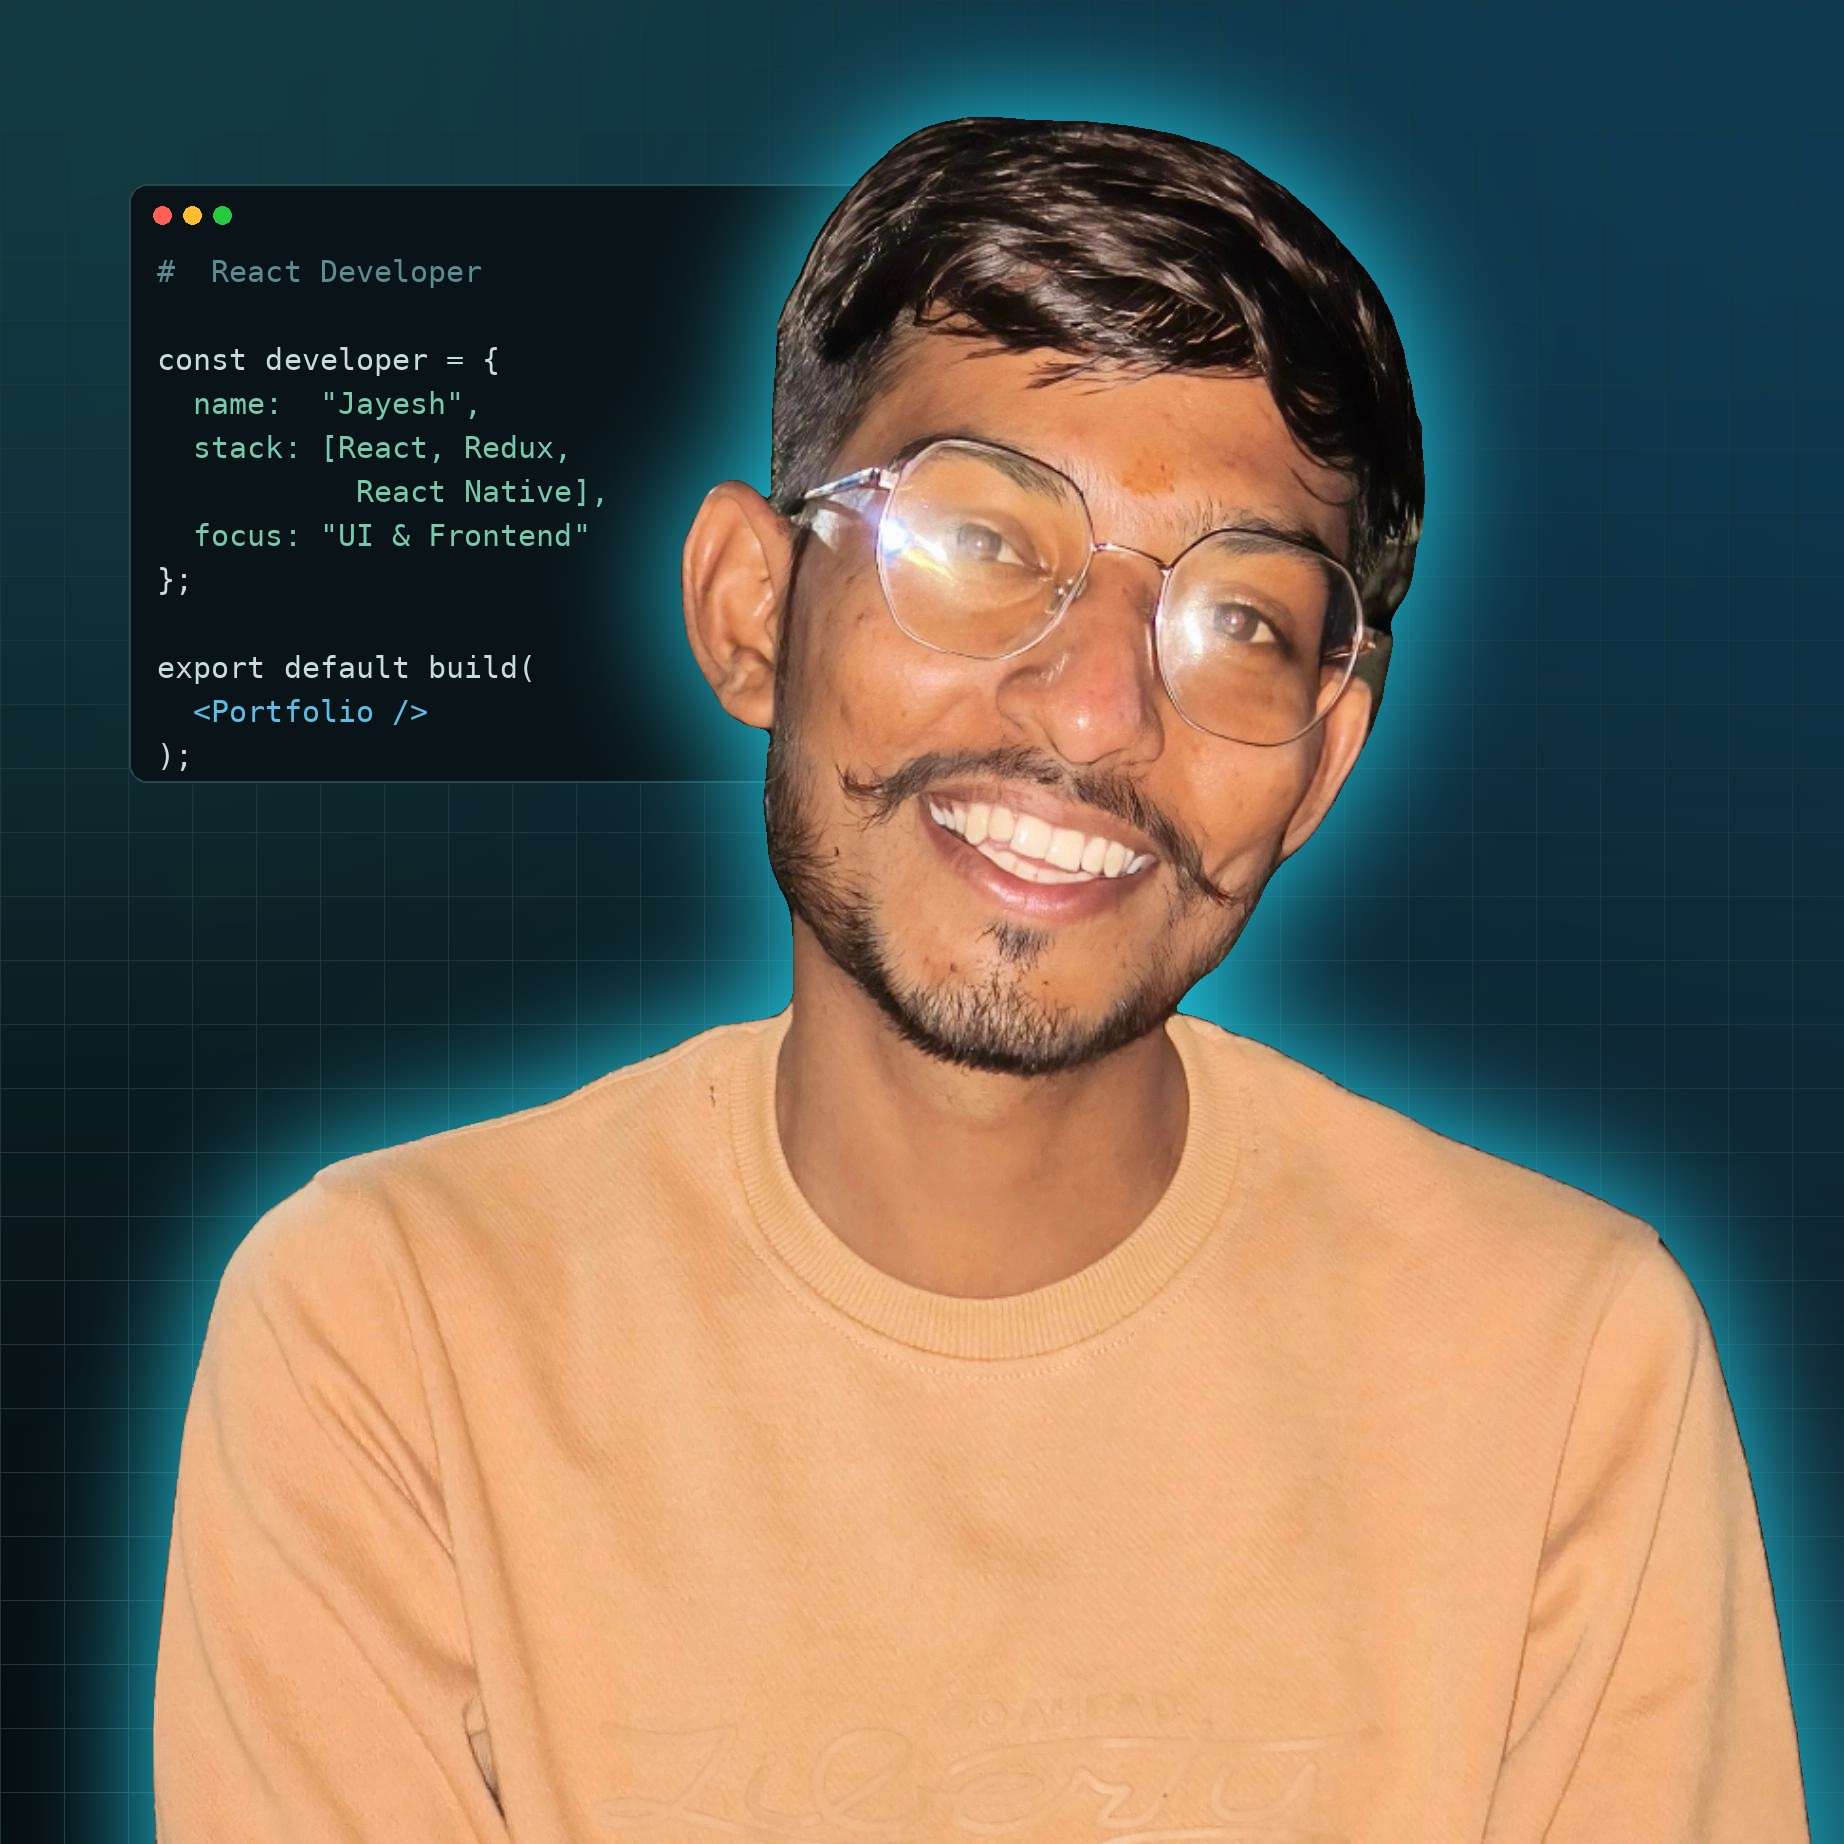
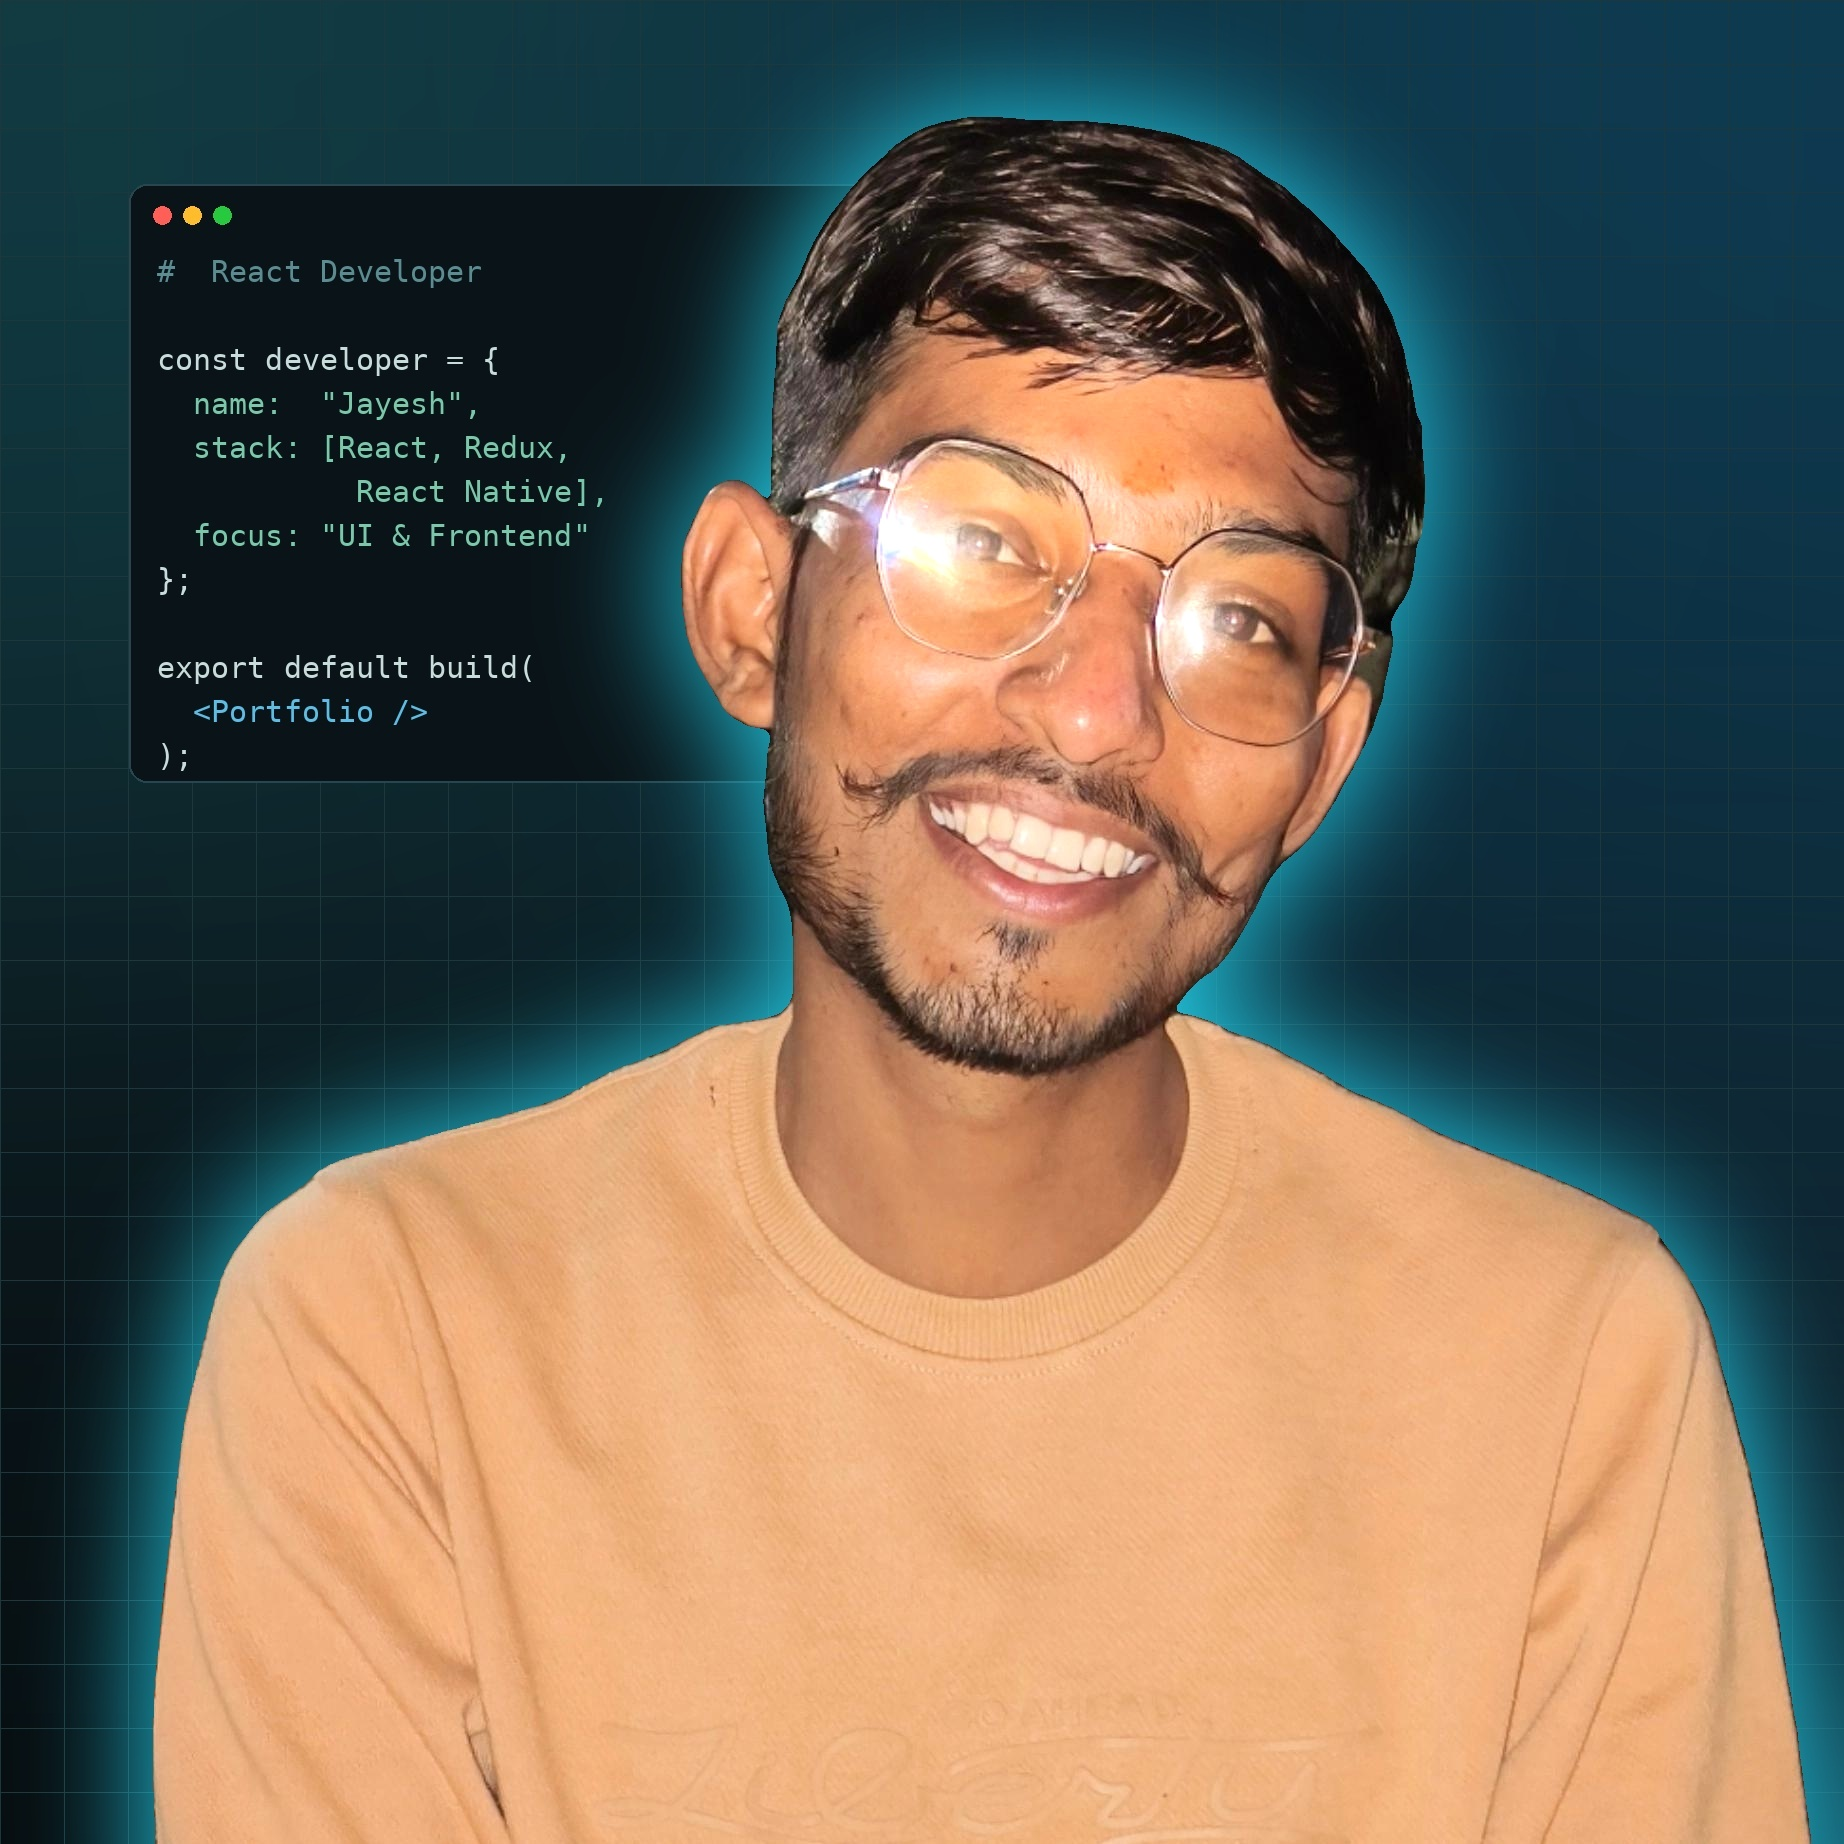
chore: brighten hero image, breathing glow animation, vercel deploy config
Add .npmrc (legacy-peer-deps for react 19 / testing-library peer conflict) and .vercelignore (exclude .codegraph socket) for Vercel builds.

Changed region(s): [[0.4328, 0.1855, 0.68, 0.3709]]

diff --git a/src/Components/Home/styles.js b/src/Components/Home/styles.js
@@ -79,17 +79,22 @@ const useStyles = (themeData) =>
       padding: 5,
       borderRadius: "50%",
       zIndex: 1,
-      "&::before": {
-        content: '""',
-        position: "absolute",
-        top: 0,
-        left: 0,
-        right: 0,
-        bottom: 0,
-        borderRadius: "50%",
-        boxShadow: `0px 0px 30px 10px ${themeData.primary}`,
-        animation: "$rotateShadowEffect 5s linear infinite",
-        zIndex: -1,
+      // gradient ring visible around the avatar via the padding gap
+      background: themeData.gradient,
+      animation: "$breathe 4s ease-in-out infinite",
+      "& .MuiAvatar-root": {
+        position: "relative",
+        zIndex: 1,
+        display: "block",
+        boxShadow: `inset 0 0 0 4px ${themeData.background}`,
+      },
+    },
+    "@keyframes breathe": {
+      "0%, 100%": {
+        boxShadow: `0 0 22px 2px ${themeData.glow}`,
+      },
+      "50%": {
+        boxShadow: `0 0 46px 10px ${themeData.glow}`,
       },
     },
     img: {
@@ -100,23 +105,6 @@ const useStyles = (themeData) =>
       "@media (max-width:900px)": {
         minHeight: "40vw", // Adjust the size as per your requirement
         minWidth: "40vw",
-      },
-    },
-    "@keyframes rotateShadowEffect": {
-      "0%": {
-        boxShadow: `10px 0px 30px 10px ${themeData.primary}`,
-      },
-      "25%": {
-        boxShadow: `0px 10px 30px 10px ${themeData.primary}`,
-      },
-      "50%": {
-        boxShadow: `-10px 0px 30px 10px ${themeData.primary}`,
-      },
-      "75%": {
-        boxShadow: `0px -10px 30px 10px ${themeData.primary}`,
-      },
-      "100%": {
-        boxShadow: `10px 0px 30px 10px ${themeData.primary}`,
       },
     },
     ctaContainer: {
